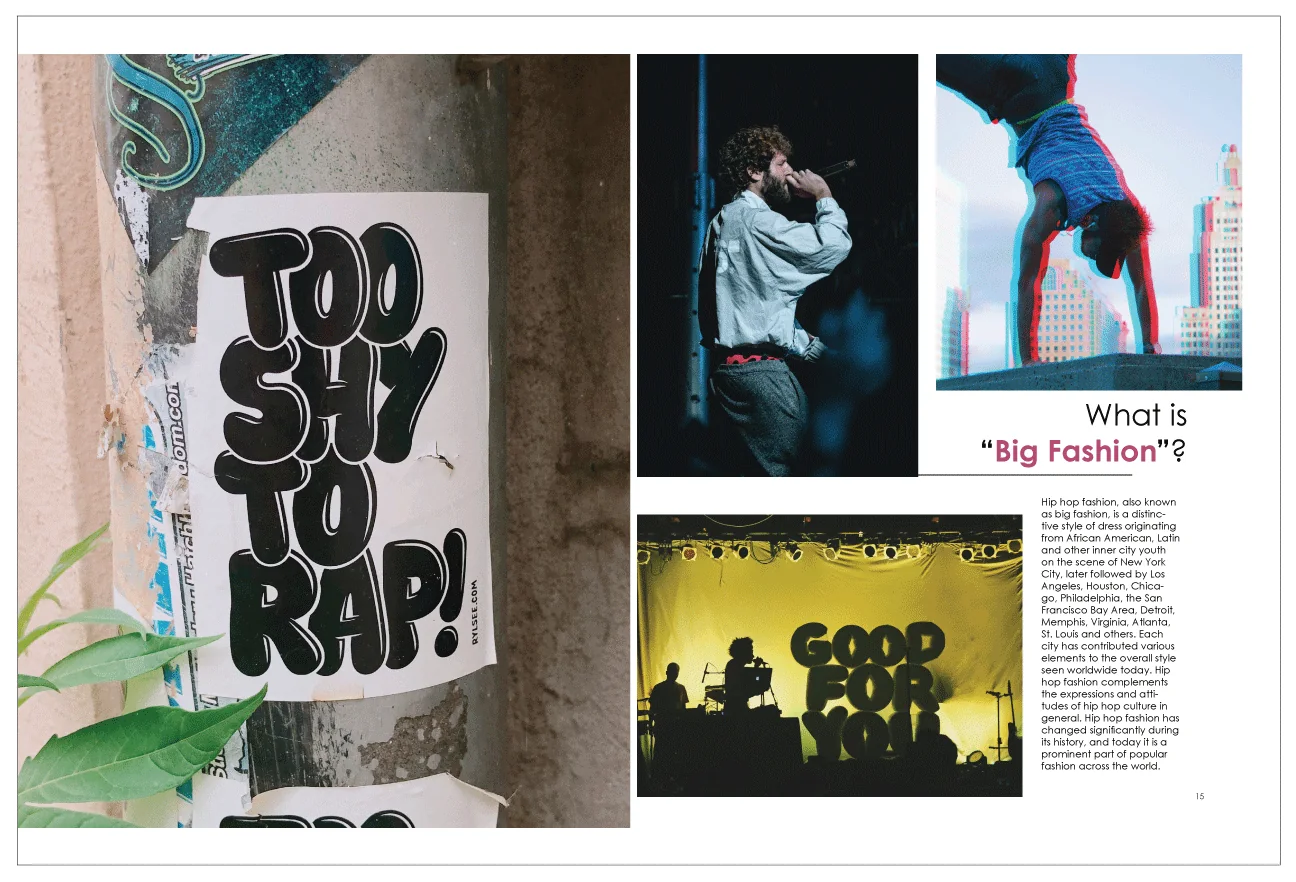
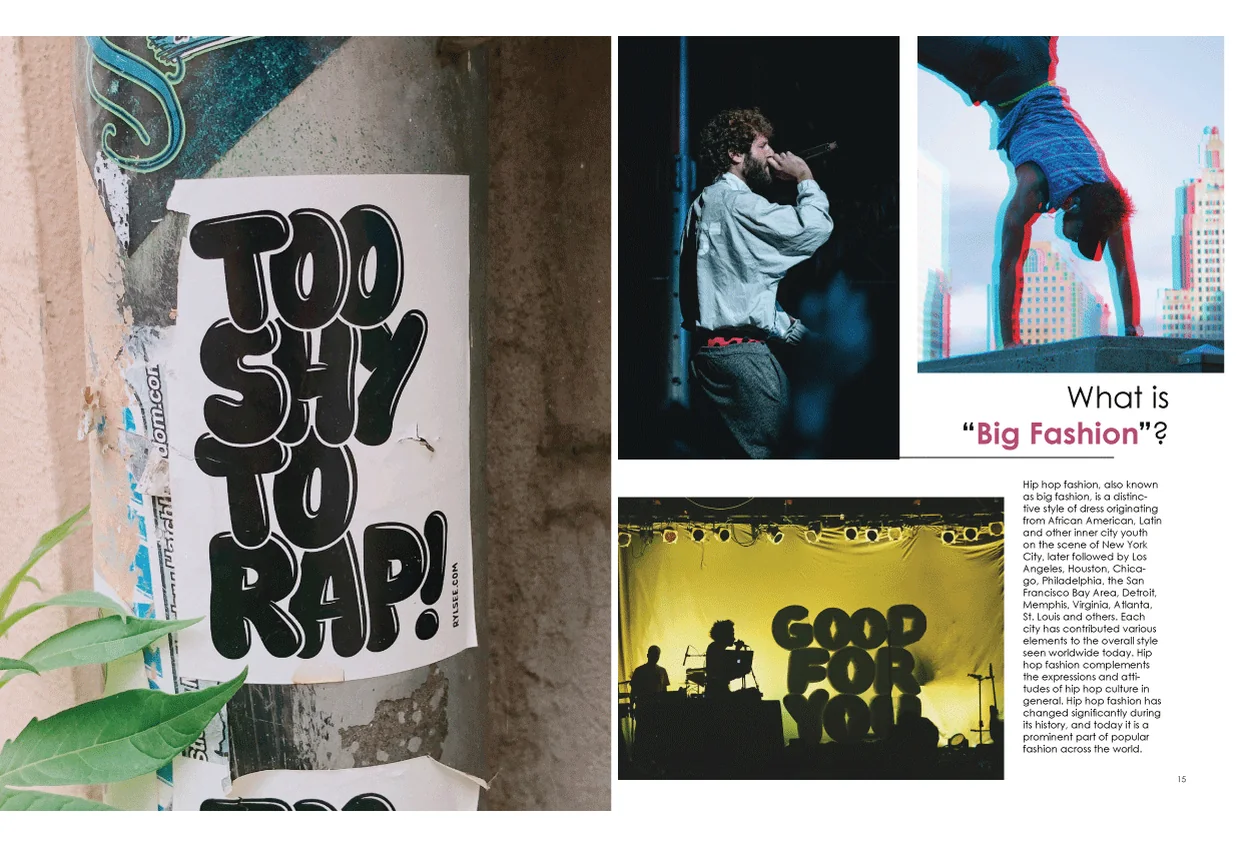
DOUX: crop frame lines from all spreads, tight covers, arrows fixed at both ends
Claude-Session: https://claude.ai/code/session_0126NKCS3TtysyaQaZxswtoT

diff --git a/site/assets/flipbook.css b/site/assets/flipbook.css
@@ -7,7 +7,7 @@ dialog.mag::backdrop{background:#040310e6}
 dialog.mag button{min-height:44px;padding:0 16px;border-radius:999px;border:0;background:#fff1a6;color:#1a1033;font:inherit;font-weight:700;cursor:pointer}
 dialog.mag button:hover{background:#ffb3d9}
 dialog.mag button:disabled{opacity:.35;cursor:default;background:#fff1a6}
-.mag-book{position:relative;width:100%;aspect-ratio:1296/882;max-height:72vh;margin:0 auto;perspective:4200px;cursor:pointer;border-radius:6px;box-shadow:0 30px 70px #000c}
+.mag-book{position:relative;width:100%;aspect-ratio:1260/846;max-height:72vh;margin:0 auto;perspective:4200px;cursor:pointer;border-radius:6px;box-shadow:0 30px 70px #000c}
 .mag-book > div{position:absolute;inset:0;background-size:100% 100%;background-repeat:no-repeat}
 .mag-left{pointer-events:none}
 .mag-left.keep-l{clip-path:inset(0 50% 0 0)}
@@ -27,15 +27,14 @@ dialog.mag button:disabled{opacity:.35;cursor:default;background:#fff1a6}
 .mag-leaf.bwd.go{animation:magbwd .75s cubic-bezier(.45,.05,.3,1) forwards}
 @keyframes magfwd{from{transform:rotateY(0)}to{transform:rotateY(-180deg)}}
 @keyframes magbwd{from{transform:rotateY(0)}to{transform:rotateY(180deg)}}
-.mag-bar{display:flex;align-items:center;justify-content:center;gap:14px;margin-top:12px}
-.mag-nav{width:44px;padding:0!important;font-size:1.3rem!important}
+.mag-bar{display:grid;grid-template-columns:44px minmax(0,1fr) 44px;align-items:center;gap:10px;margin-top:12px}
+.mag-nav{width:44px;height:44px;min-height:44px!important;padding:0!important;font-size:1.2rem!important;flex:none}
 .mag-count{margin:0;min-width:0;text-align:center;color:#d6cef0;font-size:.95rem}
 .mag-hint{margin:6px 0 0;text-align:center;font-family:VT323,monospace;font-size:1.05rem;letter-spacing:.06em;color:#b8afd8}
 @media (max-width:640px){.mag-hint{display:none}.mag-count{font-size:.85rem}}
 /* closed magazine: a single cover page, centered */
-.mag-base.single{left:25%!important;right:25%!important;background-size:200% 100%!important;box-shadow:0 20px 50px #000a;transform-origin:0 50%}
-.mag-base.single.r{background-position:100% 0}
-.mag-base.single.l{background-position:0 0;transform-origin:100% 50%}
+.mag-base.single{top:0;bottom:0;left:0!important;right:0!important;margin:0 auto;height:100%;width:auto;aspect-ratio:594/774;background-size:100% 100%!important;background-position:0 0!important;border-radius:3px;box-shadow:0 20px 50px #000a;transform-origin:0 50%}
+.mag-base.single.l{transform-origin:100% 50%}
 .mag-book.closed{box-shadow:none}
 .mag-book.closed .mag-spine{display:none}
 .mag-base.open-out{transition:transform .34s ease-in,opacity .34s;transform:rotateY(-70deg);opacity:.2}

diff --git a/site/assets/flipbook.js b/site/assets/flipbook.js
@@ -8,6 +8,8 @@
   const LABELS = ['Front cover', 'Table of contents', 'What does indie mean today? Sound, Style, Spirit', 'Indie, continued', 'Rise: model-singer Camille on the rise', 'Music and fashion', 'The evolution of glam rock', 'What is Big Fashion?', 'Explore pop fashion', 'Epiphone: 140 years of sound', "What's your style? quiz", 'Banks'];
   PAGES.forEach(src => { const i = new Image(); i.src = src; });   // preload so turns are smooth
   // The first image is the cover wrap: right half = front cover (pink), left half = back cover (blue).
+  const COVERS = { r: 'assets/utrgv/doux/doux-cover-front.webp', l: 'assets/utrgv/doux/doux-cover-back.webp' };   // cropped, no white margin
+  Object.values(COVERS).forEach(src => { const i = new Image(); i.src = src; });
   const STATES = [{ p: 0, half: 'r', label: 'Front cover' }]
     .concat(PAGES.slice(1).map((_, k) => ({ p: k + 1, label: LABELS[k + 1] })))
     .concat([{ p: 0, half: 'l', label: 'Back cover' }]);
@@ -29,7 +31,8 @@
 
   function show(i) {
     const st = STATES[i];
-    cur = i; bg(base, st.p); left.style.backgroundImage = ''; leaf.hidden = true;
+    cur = i; left.style.backgroundImage = ''; leaf.hidden = true;
+    base.style.backgroundImage = 'url(' + (st.half ? COVERS[st.half] : PAGES[st.p]) + ')';
     base.className = 'mag-base' + (st.half ? ' single ' + st.half : '');
     book.classList.toggle('closed', !!st.half);
     book.setAttribute('role', 'img'); book.setAttribute('aria-label', 'DOUX Magazine, ' + st.label);

diff --git a/site/index.html b/site/index.html
@@ -305,7 +305,7 @@
   }
 </style>
 <link rel="stylesheet" href="assets/planets.css?v=2">
-<link rel="stylesheet" href="assets/flipbook.css?v=2">
+<link rel="stylesheet" href="assets/flipbook.css?v=4">
 </head>
 <body>
 <a class="skip" href="#work">Skip the journey: go to my work</a>
@@ -676,7 +676,7 @@
   document.addEventListener('keydown', e => { if (e.key === 'Escape' && win.classList.contains('max')) { setMax(false); bMax.focus(); } });
 })();
 </script>
-<script src="assets/flipbook.js?v=2"></script>
+<script src="assets/flipbook.js?v=4"></script>
 <script src="assets/planets.js?v=2"></script>
 <script src="assets/cursor.js?v=2"></script>
 <script src="assets/nav.js?v=2"></script>
